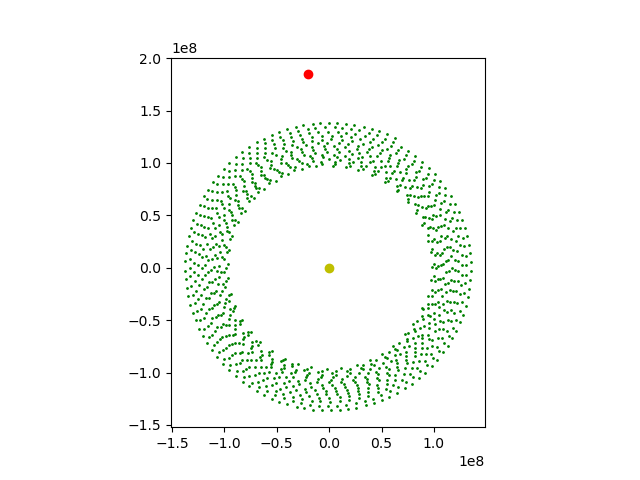
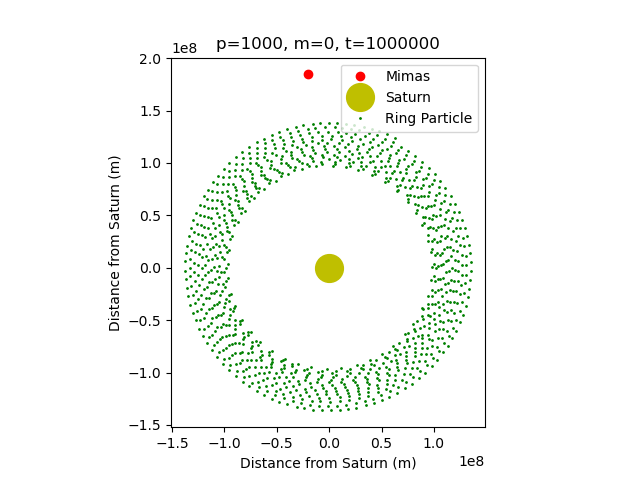
Add more plots and make them pretty

diff --git a/plot.py b/plot.py
@@ -14,9 +14,16 @@ subprocess.run("./sim_ring_gaps " + ' '.join(sys.argv[1:]) + " > data.csv",
 data = csv.reader(open("data.csv"))
 xm, ym = next(data)
 plot.gca().set_aspect('equal')
-plot.plot(float(xm), float(ym), "ro")
-plot.plot(0, 0, "yo")
+plot.title("p=" + sys.argv[1] + ", m=" + sys.argv[2] +
+           ", t=" + sys.argv[3])
+plot.xlabel("Distance from Saturn (m)")
+plot.ylabel("Distance from Saturn (m)")
+plot.plot(float(xm), float(ym), "ro", label="Mimas")
+plot.plot(0, 0, "yo", markersize=20, label="Saturn")
+x, y = next(data)
+plot.plot(float(x), float(y), "go", markersize=1, label="Ring Particle")
 for x, y in data:
     plot.plot(float(x), float(y), "go", markersize=1)
+plot.legend(loc='upper right')
 plot.savefig('img/mimas_mult=' + sys.argv[2] + '&p=' + sys.argv[1] + '&t=' +
              sys.argv[3] + '.png')
